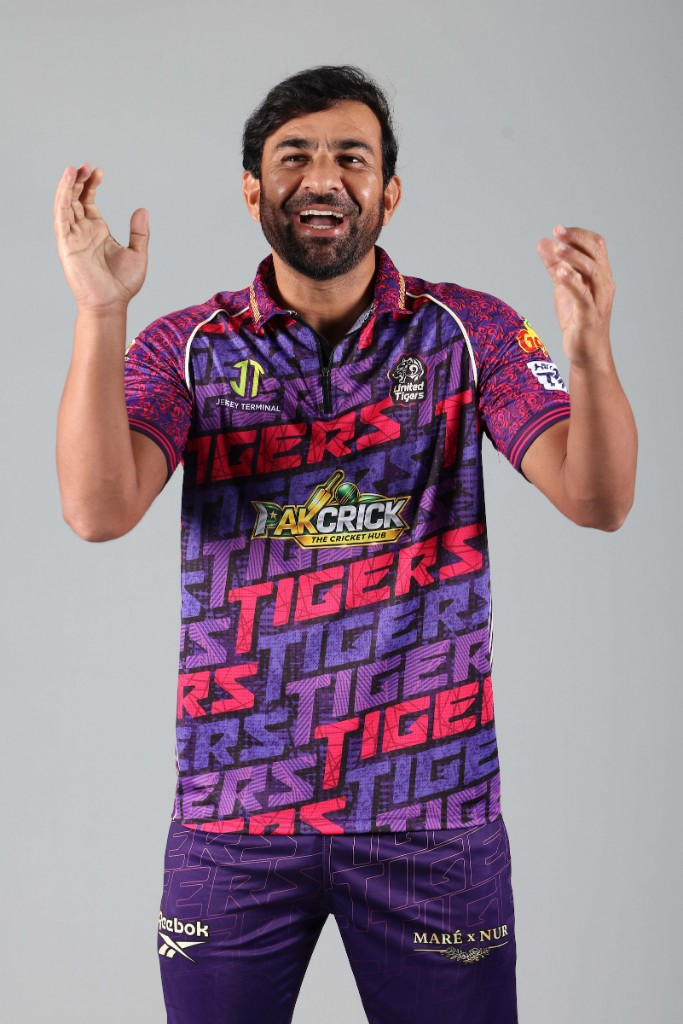
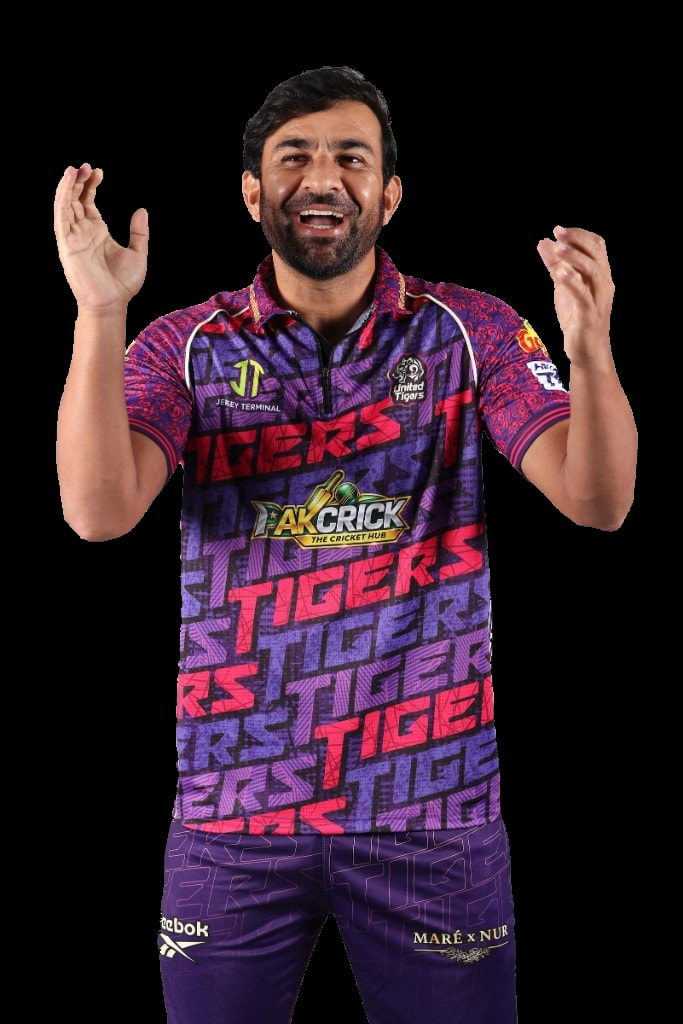
Match squad player photos to black product mockup backgrounds.

diff --git a/apps/web/src/components/home/SquadGallery.tsx b/apps/web/src/components/home/SquadGallery.tsx
@@ -50,18 +50,26 @@ export function SquadGallery({ photos = UNITED_TIGERS_SQUAD }: { photos?: SquadP
               <button
                 type="button"
                 onClick={() => setActive(photo)}
-                className="group relative aspect-[3/4] w-full overflow-hidden border border-white/10 bg-jt-dark text-left"
+                className="jt-card jt-playing-card group relative aspect-[3/4] w-full overflow-visible text-left"
               >
-                <Image
-                  src={photo.src}
-                  alt={photo.alt}
-                  fill
-                  sizes="(max-width: 640px) 50vw, (max-width: 1024px) 33vw, 25vw"
-                  className="object-cover transition duration-500 group-hover:scale-[1.04]"
-                />
-                <span className="absolute inset-x-0 bottom-0 bg-gradient-to-t from-black/80 via-black/40 to-transparent px-3 pb-3 pt-10">
-                  <span className="block text-[11px] font-semibold uppercase tracking-[0.14em] text-white">
-                    {photo.name}
+                <span aria-hidden className="jt-card-aura" />
+                <span className="jt-card-frame jt-playing-frame relative block h-full w-full p-[2.5px] sm:p-[3px]">
+                  <span aria-hidden className="jt-card-border-run" />
+                  <span aria-hidden className="jt-card-border-bloom" />
+                  <span className="jt-card-media jt-playing-face relative block h-full w-full overflow-hidden bg-black">
+                    <Image
+                      src={photo.src}
+                      alt={photo.alt}
+                      fill
+                      sizes="(max-width: 640px) 50vw, (max-width: 1024px) 33vw, 25vw"
+                      className="object-cover object-top transition duration-500 group-hover:scale-[1.04]"
+                    />
+                    <span aria-hidden className="jt-card-shine pointer-events-none absolute inset-0 z-[1]" />
+                    <span className="absolute inset-x-0 bottom-0 z-[2] bg-gradient-to-t from-black/85 via-black/35 to-transparent px-3 pb-3 pt-10">
+                      <span className="block text-[11px] font-semibold uppercase tracking-[0.14em] text-white">
+                        {photo.name}
+                      </span>
+                    </span>
                   </span>
                 </span>
               </button>
@@ -87,13 +95,13 @@ export function SquadGallery({ photos = UNITED_TIGERS_SQUAD }: { photos?: SquadP
             >
               <X className="h-5 w-5" />
             </button>
-            <div className="relative aspect-[3/4] w-full overflow-hidden border border-white/15 bg-jt-dark sm:aspect-[4/5]">
+            <div className="relative aspect-[3/4] w-full overflow-hidden border border-white/15 bg-black sm:aspect-[4/5]">
               <Image
                 src={active.src}
                 alt={active.alt}
                 fill
                 sizes="(max-width: 768px) 100vw, 768px"
-                className="object-contain"
+                className="object-contain object-center"
                 priority
               />
             </div>

diff --git a/apps/web/src/lib/squad.ts b/apps/web/src/lib/squad.ts
@@ -4,60 +4,67 @@ export type SquadPhoto = {
   alt: string;
 };
 
+/** Bump when squad assets change so Next/CDN caches refresh. */
+const SQUAD_ASSET_V = "black-bg-v1";
+
+function squadSrc(file: string) {
+  return `/squad/united-tigers/${file}?v=${SQUAD_ASSET_V}`;
+}
+
 /** United Tigers squad kit photography — separate from product gallery images. */
 export const UNITED_TIGERS_SQUAD: SquadPhoto[] = [
   {
-    src: "/squad/united-tigers/01-fakhar-zaman.jpg",
+    src: squadSrc("01-fakhar-zaman.jpg"),
     name: "Fakhar Zaman",
     alt: "Fakhar Zaman in United Tigers match kit",
   },
   {
-    src: "/squad/united-tigers/02-iftikhar-ahmed.jpg",
+    src: squadSrc("02-iftikhar-ahmed.jpg"),
     name: "Iftikhar Ahmed",
     alt: "Iftikhar Ahmed in United Tigers match kit",
   },
   {
-    src: "/squad/united-tigers/03-iftikhar-ahmed-flex.jpg",
+    src: squadSrc("03-iftikhar-ahmed-flex.jpg"),
     name: "Iftikhar Ahmed",
     alt: "Iftikhar Ahmed celebrating in United Tigers kit",
   },
   {
-    src: "/squad/united-tigers/04-zeeshan-naseer.jpg",
+    src: squadSrc("04-zeeshan-naseer.jpg"),
     name: "Zeeshan Naseer",
     alt: "Zeeshan Naseer in United Tigers match kit",
   },
   {
-    src: "/squad/united-tigers/05-azmatullah-omarzai.jpg",
+    src: squadSrc("05-azmatullah-omarzai.jpg"),
     name: "Azmatullah Omarzai",
     alt: "Azmatullah Omarzai in United Tigers match kit",
   },
   {
-    src: "/squad/united-tigers/06-usman-tariq.jpg",
+    src: squadSrc("06-usman-tariq.jpg"),
     name: "Usman Tariq",
     alt: "Usman Tariq in United Tigers long-sleeve kit",
   },
   {
-    src: "/squad/united-tigers/08-odean-smith.jpg",
+    src: squadSrc("08-odean-smith.jpg"),
     name: "Odean Smith",
     alt: "Odean Smith in United Tigers match kit",
   },
   {
-    src: "/squad/united-tigers/10-faheem-ashraf.jpg",
+    src: squadSrc("10-faheem-ashraf.jpg"),
     name: "Faheem Ashraf",
     alt: "Faheem Ashraf in United Tigers match kit",
   },
   {
-    src: "/squad/united-tigers/11-abbas-afridi.jpg",
+    src: squadSrc("11-abbas-afridi.jpg"),
     name: "Abbas Afridi",
     alt: "Abbas Afridi in United Tigers match kit",
   },
   {
-    src: "/squad/united-tigers/07-azmatullah-omarzai-ls.jpg",
+    src: squadSrc("07-azmatullah-omarzai-ls.jpg"),
     name: "Azmatullah Omarzai",
     alt: "Azmatullah Omarzai in United Tigers long-sleeve kit",
   },
   {
-    src: "/squad/united-tigers/09-faheem-ashraf-ls.jpg",
+    src: squadSrc("09-faheem-ashraf-ls.jpg"),
     name: "Faheem Ashraf",
     alt: "Faheem Ashraf in United Tigers long-sleeve kit",
   },
